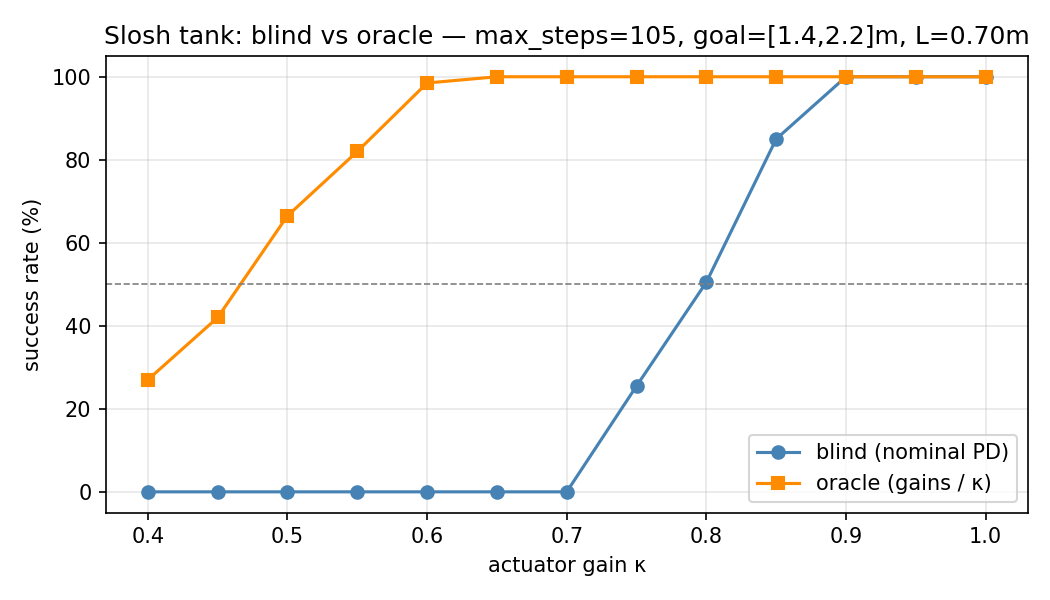
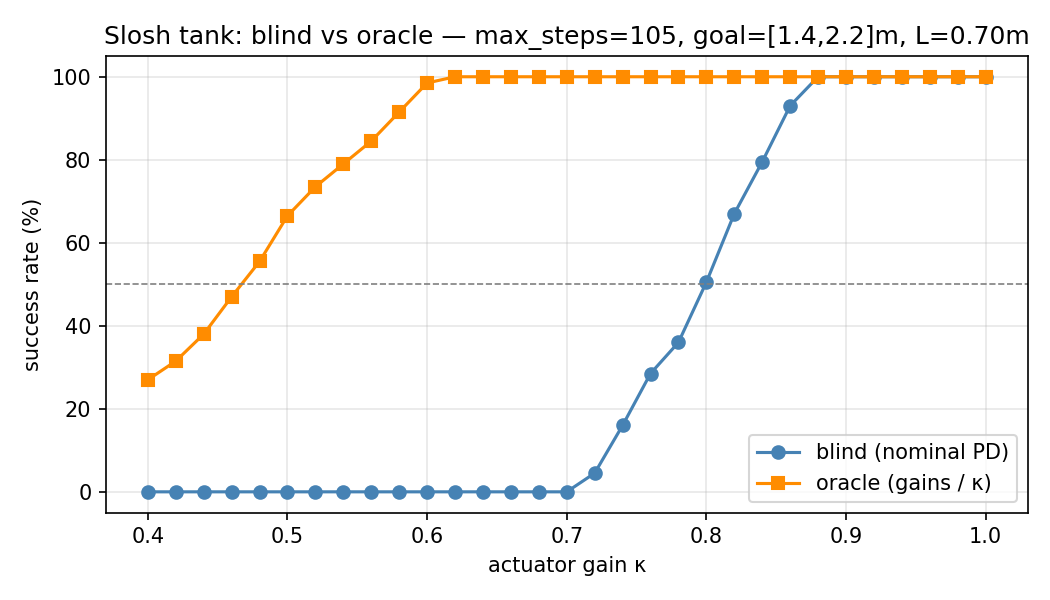
Increase gain sweep resolution to 0.02 steps (31 kappa values)
Reveals the blind policy transition region more clearly: 0% to 100%
between kappa=0.70 and kappa=0.88.

diff --git a/scripts/gain_sweep.py b/scripts/gain_sweep.py
@@ -17,7 +17,7 @@ from slosh_tank_utils import run_episode, nominal_fast_policy
 CFG = EnvConfig()  # max_steps=105, goal=[1.4,2.2], L=0.70 via defaults
 
 SEEDS = list(range(200))
-KAPPAS = [round(0.40 + 0.05 * i, 2) for i in range(13)]  # 0.40..1.00
+KAPPAS = [round(0.40 + 0.02 * i, 2) for i in range(31)]  # 0.40..1.00
 
 
 def make_oracle(kappa):
